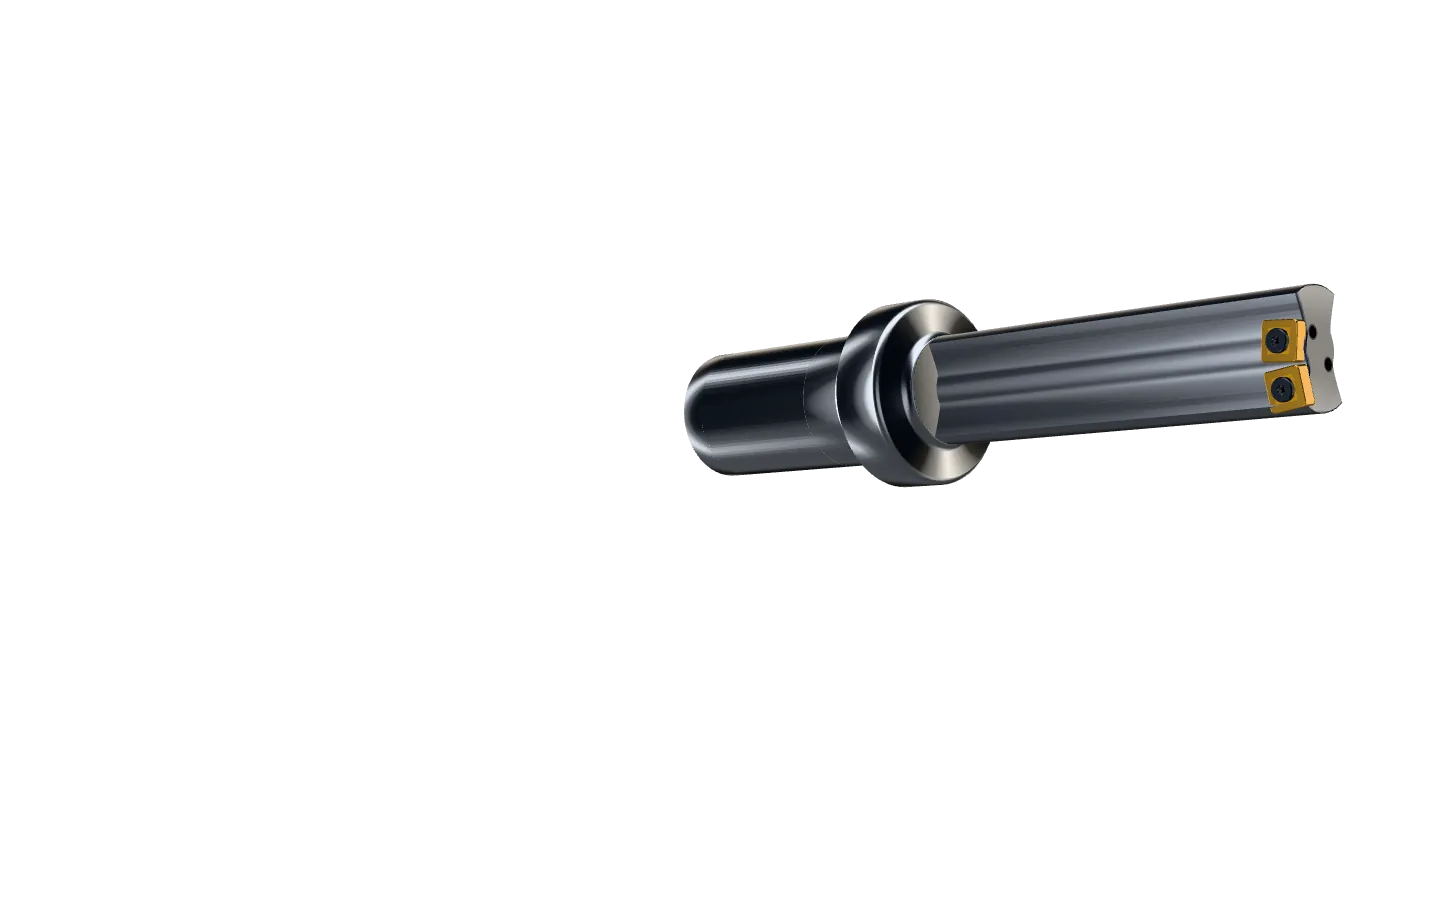
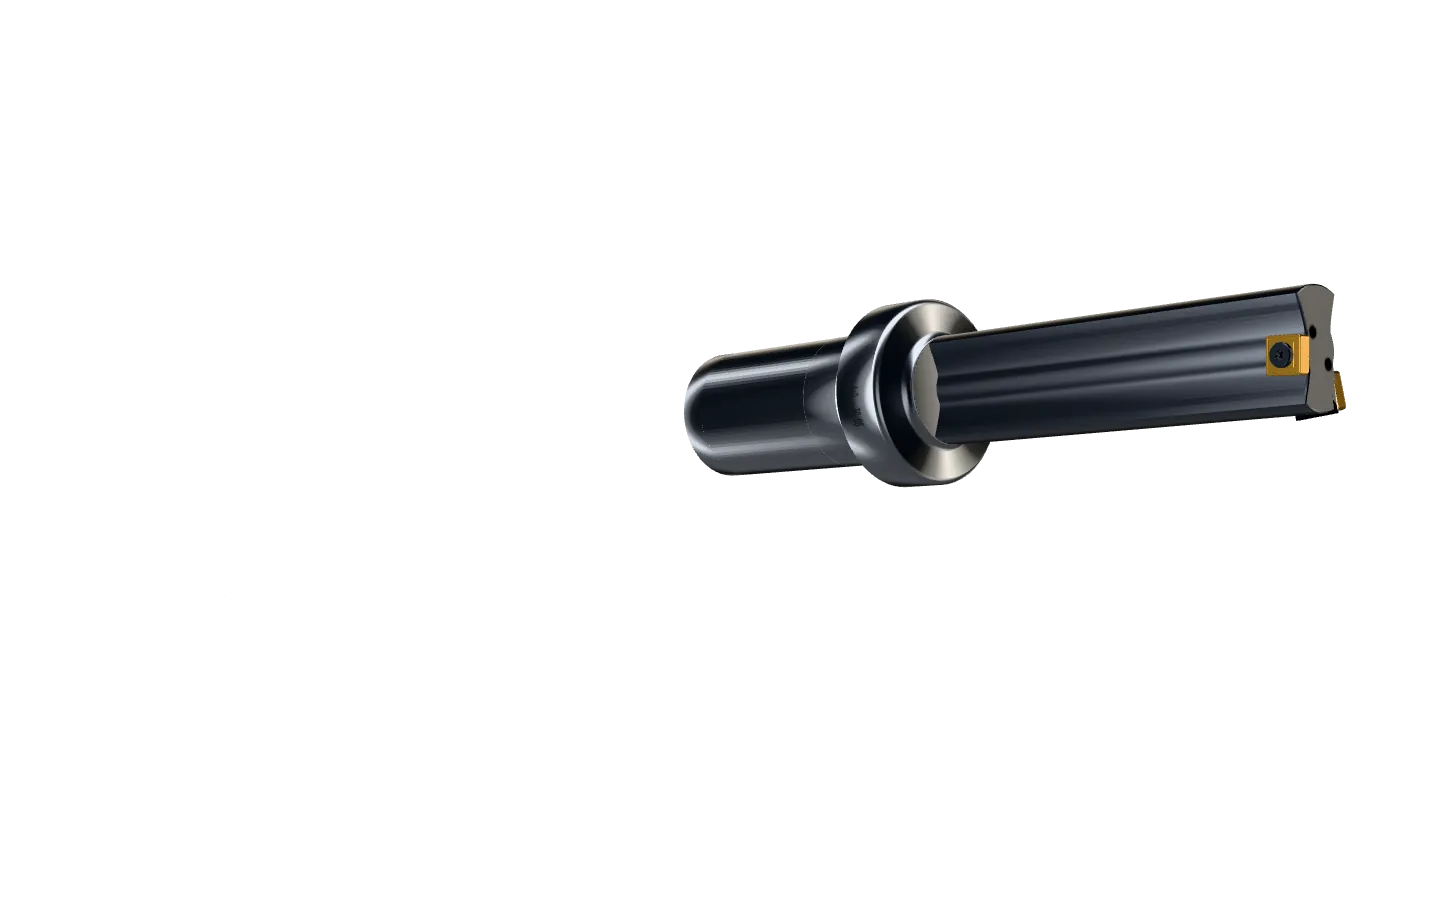
Vitrin U-matkabı: gerçek yerleşim ve detaylar
- Merkez ucu bir olukta eksene yakın, çevre ucu karşı olukta dış çapta (gerçek
  U-matkap düzeni); kesme kenarları ortada üst üste biner
- Talaş kırıcılı kare uçlar, uç cebi gölgesi, koyu nikel gövde, koyu uç yüzü
- Yakada lazer markalama (Ø25 · 4×D · IC 08), sap arkasında soğutma girişi
- Uçlar sahnesi: iki ucu birlikte gösteren uçtan 3/4 açı, yeni kamera hareketleri
- Etiketler gövdenin arkasında kalan noktaları göstermez, çıkan ucu takip eder
- Sayfa denetim araçları (tam sayfa görüntü + otomatik kontroller)
- Poster görselleri yeni modelle yenilendi

Claude-Session: https://claude.ai/code/session_01WzrkaBK6SRZNp3GfY6DdeC

Changed region(s): [[0.625, 0.3111, 0.9375, 0.4978]]

diff --git a/aksoy-site/src/scripts/showcase/model.ts b/aksoy-site/src/scripts/showcase/model.ts
@@ -1,6 +1,7 @@
 // Kodla üretilmiş uçlu U-matkap (geçici model). Ölçüler mm; dış grup 0.01 ile ölçeklenir (1 birim = 100 mm).
 // Gövde, kullanıcının getireceği GLB ile değiştirilebilir; uçlar, torx vidalar ve soğutma noktaları kodda kalır.
 import * as THREE from 'three';
+import { buildInsert as buildChipbreakerInsert } from '../three/tools3d';
 
 export interface InsertPart {
   /** Uç + vidanın bağlı olduğu yuva (seat) noktası */
@@ -113,7 +114,8 @@ function torxPath(rOuter: number, rInner: number, lobes = 6) {
 }
 
 function makeMaterials() {
-  const body = new THREE.MeshPhysicalMaterial({ color: 0x8e949c, metalness: 1, roughness: 0.34, envMapIntensity: 1.0, vertexColors: true });
+  // Gövde: koyu nikel kaplama; oluk içleri köşe rengiyle daha koyu, taşlanmış pahlar parlak
+  const body = new THREE.MeshPhysicalMaterial({ color: 0x6a7078, metalness: 1, roughness: 0.32, envMapIntensity: 1.1, vertexColors: true, clearcoat: 0.25, clearcoatRoughness: 0.35 });
   const shank = new THREE.MeshPhysicalMaterial({ color: 0x9da3ab, metalness: 1, roughness: 0.25, envMapIntensity: 1.0 });
   const flat = new THREE.MeshPhysicalMaterial({ color: 0x7a8088, metalness: 1, roughness: 0.5 });
   const flute = new THREE.MeshPhysicalMaterial({ color: 0x4f545b, metalness: 1, roughness: 0.3 });
@@ -123,30 +125,15 @@ function makeMaterials() {
   return { body, shank, flat, flute, insert, screw, hole };
 }
 
-function buildInsert(mat: THREE.Material, holeMat: THREE.Material) {
+function buildInsert(mat: THREE.MeshPhysicalMaterial, holeMat: THREE.MeshBasicMaterial, screwMat: THREE.MeshPhysicalMaterial) {
   const size = 8, th = 3.18;
-  const shape = roundedSquare(size, 0.8);
-  const hole = new THREE.Path();
-  hole.absarc(0, 0, 1.75, 0, Math.PI * 2, true);
-  shape.holes.push(hole);
-  const geo = new THREE.ExtrudeGeometry(shape, { depth: th - 0.5, bevelEnabled: true, bevelThickness: 0.25, bevelSize: 0.22, bevelSegments: 3, curveSegments: 24 });
-  geo.translate(0, 0, -(th - 0.5) / 2);
+  const h = size / 2;
   const g = new THREE.Group();
-  const m = new THREE.Mesh(geo, mat);
-  g.add(m);
-  // Talaş kırıcı: üst yüzeyde içe çekik ince çerçeve
-  const land = new THREE.Mesh(
-    new THREE.RingGeometry(2.6, 3.3, 4, 1, Math.PI / 4),
-    new THREE.MeshPhysicalMaterial({ color: 0xa97a2a, metalness: 1, roughness: 0.45 }),
-  );
-  land.position.z = th / 2 + 0.01;
-  land.scale.setScalar(1.12);
-  g.add(land);
-  // Havşa (vida başı oturma yeri)
-  const cs = new THREE.Mesh(new THREE.CylinderGeometry(2.4, 1.75, 0.6, 32, 1, true), holeMat);
-  cs.rotation.x = Math.PI / 2;
-  cs.position.z = th / 2 - 0.3;
-  g.add(cs);
+  // Kare SPMG benzeri uç: kesme kenarı bandı, talaş kırıcı oluğu, plato ve havşalı delik
+  const body = buildChipbreakerInsert([new THREE.Vector2(h, -h), new THREE.Vector2(h, h), new THREE.Vector2(-h, h), new THREE.Vector2(-h, -h)],
+    { rad: 0.8, th, hole: 1.75, land: 0.45, breaker: 1.55 }, { screw: screwMat, hole: holeMat } as any, mat);
+  body.position.z = -th / 2;
+  g.add(body);
   // Körelmiş kenar: üst yüzde tek bir kesme kenarı boyunca turuncu ısı izi
   const wear = new THREE.Mesh(
     new THREE.BoxGeometry(size - 1.6, 0.55, 0.2),
@@ -156,6 +143,23 @@ function buildInsert(mat: THREE.Material, holeMat: THREE.Material) {
   g.add(wear);
   g.userData.wear = wear;
   return g;
+}
+
+/** Markalama: yaka üzerine lazerle yazılmış ölçü (koyu, yarı mat) */
+function markingTexture(text: string) {
+  const c = document.createElement('canvas');
+  c.width = 1024; c.height = 96;
+  const g = c.getContext('2d')!;
+  g.clearRect(0, 0, c.width, c.height);
+  g.font = '600 54px "IBM Plex Mono", ui-monospace, monospace';
+  g.textAlign = 'center';
+  g.textBaseline = 'middle';
+  g.fillStyle = 'rgba(14,15,17,0.88)';
+  g.fillText(text, c.width / 2, c.height / 2 + 2);
+  const t = new THREE.CanvasTexture(c);
+  t.colorSpace = THREE.SRGBColorSpace;
+  t.anisotropy = 4;
+  return t;
 }
 
 function buildScrew(mat: THREE.Material, holeMat: THREE.Material) {
@@ -224,15 +228,31 @@ export function buildDrill(): Drill {
   {
     const pos = fg.attributes.position;
     const col = new Float32Array(pos.count * 3);
+    const nrm = fg.attributes.normal;
     for (let i = 0; i < pos.count; i++) {
       const r = Math.hypot(pos.getX(i), pos.getZ(i));
       const k = THREE.MathUtils.smoothstep(r, R - 2.2, R - 0.2);
-      const c = 0.62 + 0.38 * k;
+      let c = 0.58 + 0.42 * k;
+      // Uç yüzü (kesme tarafı) taşlanmış ama koyu: düz "tıpa" görünmesin
+      if (nrm.getY(i) > 0.9 && pos.getY(i) > A_TIP - 1) c = 0.5;
       col[i * 3] = c; col[i * 3 + 1] = c; col[i * 3 + 2] = c * 1.02;
     }
     fg.setAttribute('color', new THREE.BufferAttribute(col, 3));
   }
   body.add(new THREE.Mesh(fg, materials.body));
+
+  // Yaka üzerinde lazer markalama (ön yüz)
+  const mark = new THREE.Mesh(
+    new THREE.CylinderGeometry(22.04, 22.04, 7, 96, 1, true, -0.62, 1.24),
+    new THREE.MeshPhysicalMaterial({ map: markingTexture('Ø25 · 4×D · IC 08'), transparent: true, depthWrite: false, metalness: 0.4, roughness: 0.7, polygonOffset: true, polygonOffsetFactor: -2 }),
+  );
+  mark.position.y = -51;
+  body.add(mark);
+  // Sap arkasında içten soğutma girişi
+  const inlet = new THREE.Mesh(new THREE.CircleGeometry(3.2, 32), materials.hole);
+  inlet.rotation.x = Math.PI / 2;
+  inlet.position.y = A_END - 0.02;
+  body.add(inlet);
 
   // Uç yüzü: soğutma delikleri
   const coolant: Drill['coolant'] = [];
@@ -255,9 +275,11 @@ export function buildDrill(): Drill {
 
   // Uçlar ve torx vidalar (öne bakan olukta: +Z)
   const inserts: InsertPart[] = [];
+  // Gerçek U-matkaptaki gibi: merkez ucu bir olukta eksene yakın, çevre ucu karşı olukta dış çapta;
+  // kesme kenarları ortada üst üste biner ve uç yüzünden ~0,6 mm öne taşar.
   const seats = [
-    { name: 'cevre', pos: new THREE.Vector3(7.6, A_TIP - 3.6, 5.6), rot: new THREE.Euler(0.08, 0.06, 0.12) },
-    { name: 'merkez', pos: new THREE.Vector3(-1.9, A_TIP - 4.2, 5.4), rot: new THREE.Euler(0.08, -0.04, -0.08) },
+    { name: 'cevre', pos: new THREE.Vector3(8.7, A_TIP - 3.4, -5.5), rot: new THREE.Euler(-0.08, Math.PI + 0.05, -0.1) },
+    { name: 'merkez', pos: new THREE.Vector3(1.0, A_TIP - 3.5, 5.5), rot: new THREE.Euler(0.08, -0.04, -0.06) },
   ];
   for (const s of seats) {
     const seat = new THREE.Group();
@@ -265,15 +287,20 @@ export function buildDrill(): Drill {
     seat.rotation.copy(s.rot);
     scaler.add(seat);
     const ins = new THREE.Group();
-    const insMesh = buildInsert(materials.insert, materials.hole);
+    const insMesh = buildInsert(materials.insert, materials.hole, materials.screw);
     ins.add(insMesh);
     seat.add(ins);
+    // Uç cebi: uçtan biraz büyük karanlık oyuk, kenarlarda gölge çizgisi olarak görünür
+    const pocket = new THREE.Mesh(new THREE.BoxGeometry(9.0, 8.6, 1.3), materials.hole);
+    pocket.position.set(0, -0.75, -2.0);
+    seat.add(pocket);
     const screw = buildScrew(materials.screw, materials.hole);
     screw.position.z = 1.9;
     seat.add(screw);
     inserts.push({ seat, insert: ins, screw, wear: insMesh.userData.wear, liftForward: s.name === 'cevre' ? 1 : 0.6 });
+    // Etiket noktası ucun kendisine bağlı: uç yerinden çıkınca etiket de onunla gider
     const a = new THREE.Object3D();
-    seat.add(a);
+    ins.add(a);
     a.position.set(0, 0, 2);
     anchors[`insert-${s.name}`] = a;
     const sa = new THREE.Object3D();

diff --git a/aksoy-site/src/scripts/showcase/showcase.ts b/aksoy-site/src/scripts/showcase/showcase.ts
@@ -22,7 +22,7 @@ const TAU = Math.PI * 2;
 const DESKTOP: Pose[] = [
   { rx: 0.3, ry: -0.9, rz: 0.45, px: 0.36, py: 0.14, scale: 1.15, focus: CENTER, spin: -0.5 },
   { rx: 0.2, ry: 0.5, rz: 0.06, px: 0.3, py: -0.04, scale: 0.92, focus: 22, spin: -0.75 },
-  { rx: 0.3, ry: -0.35, rz: 0.1, px: -0.15, py: 0.02, scale: 3.6, focus: 50, spin: 0.1 },
+  { rx: 0.25, ry: -1.15, rz: 0.1, px: -0.17, py: 0.02, scale: 3.0, focus: 50, spin: -0.5 },
   { rx: 0.22, ry: -0.6, rz: 0.12, px: 0.34, py: 0.02, scale: 1.5, focus: 30, spin: -0.35 },
   { rx: 0.4, ry: -0.5, rz: 0.2, px: -0.2, py: 0.04, scale: 3.3, focus: 50, spin: 0.25 },
   { rx: 0.3, ry: -0.9, rz: 0.45, px: 0.02, py: 0.32, scale: 0.95, focus: CENTER, spin: -0.5 },
@@ -32,7 +32,7 @@ const DESKTOP_DIM: Partial<Pose> = { rx: 0.15, ry: -0.18, rz: 0.04, px: 0.36, py
 const MOBILE: Pose[] = [
   { rx: 0.3, ry: -0.9, rz: 0.9, px: 0.0, py: 0.3, scale: 1.95, focus: CENTER, spin: -0.5 },
   { rx: 0.2, ry: 0.5, rz: 0.5, px: 0.0, py: 0.3, scale: 1.45, focus: 22, spin: -0.75 },
-  { rx: 0.3, ry: -0.35, rz: 0.3, px: 0.04, py: 0.3, scale: 4.6, focus: 50, spin: 0.1 },
+  { rx: 0.25, ry: -1.15, rz: 0.3, px: 0.02, py: 0.3, scale: 3.9, focus: 50, spin: -0.5 },
   { rx: 0.22, ry: -0.6, rz: 0.42, px: -0.04, py: 0.3, scale: 2.5, focus: 30, spin: -0.35 },
   { rx: 0.4, ry: -0.5, rz: 0.36, px: 0.04, py: 0.32, scale: 4.4, focus: 50, spin: 0.25 },
   { rx: 0.3, ry: -0.9, rz: 0.9, px: 0.0, py: 0.4, scale: 1.7, focus: CENTER, spin: -0.5 },
@@ -297,12 +297,12 @@ export async function startShowcase(
       ft({ shake: 0 }, { shake: 0.55, duration: 0.04 }, 3.6);
       ft({ shake: 0.55 }, { shake: 0, duration: 0.35 }, 3.64);
       if (!calm) cam([
-        { at: 0, dur: 0.45, to: { scale: 0.35, ry: 0.08, env: 0.2 } }, // körelmiş kenara yaklaş
-        { at: 0.45, dur: 1.0, to: { scale: 1.15, ry: 0.22, rx: 0.12, focus: 2, env: 0.5 } }, // vida sökülürken makro
-        { at: 1.45, dur: 0.6, ease: 'power2.out', to: { scale: 0.55, ry: 0.55, rx: 0.1, rz: 0.04, env: 0.9 } }, // uç fırlar, kamera döner
-        { at: 2.05, dur: 1.0, to: { scale: 0.7, ry: 0.85, rx: 0.32, rz: 0.06, env: 1.4 } }, // 90° çevirme: üstten bakış
-        { at: 3.05, dur: 0.6, ease: 'power2.in', to: { scale: 1.0, ry: 0.4, rx: 0.12, rz: 0, env: 1.6 } }, // oturma anına dal
-        { at: 3.7, dur: 0.9, to: { scale: 0.2, ry: 0.1, rx: 0.02, env: 1.9 } }, // sıkılırken geri çekil
+        { at: 0, dur: 0.45, to: { scale: 0.3, ry: 0.05, env: 0.2 } }, // körelmiş kenara yaklaş
+        { at: 0.45, dur: 1.0, to: { scale: 0.85, ry: -0.08, rx: 0.1, focus: 2, env: 0.5 } }, // vida sökülürken makro
+        { at: 1.45, dur: 0.6, ease: 'power2.out', to: { scale: 0.45, ry: 0.2, rx: 0.14, rz: 0.04, env: 0.9 } }, // uçlar fırlar, kamera döner
+        { at: 2.05, dur: 1.0, to: { scale: 0.55, ry: 0.42, rx: 0.3, rz: 0.06, env: 1.4 } }, // 90° çevirme: çevre ucuna dön
+        { at: 3.05, dur: 0.6, ease: 'power2.in', to: { scale: 0.8, ry: 0.12, rx: 0.12, rz: 0, env: 1.6 } }, // oturma anına dal
+        { at: 3.7, dur: 0.9, to: { scale: 0.15, ry: 0.03, rx: 0.02, env: 1.9 } }, // sıkılırken geri çekil
       ]);
     }
     if (k === 3) {
@@ -683,7 +683,25 @@ export async function startShowcase(
   // GAP kadar yakınlık da çakışma sayılır
   const overlap = (a: Rect, b: Rect) =>
     Math.max(0, Math.min(a.r, b.r) - Math.max(a.l, b.l) + GAP) * Math.max(0, Math.min(a.b, b.b) - Math.max(a.t, b.t) + GAP);
+  // Gövdenin arkasında kalan noktaların etiketi gösterilmez (ör. karşı oluktaki uç)
+  const ray = new THREE.Raycaster();
+  const occluded = new Map<string, boolean>();
+  const rv = new THREE.Vector3();
+  let occT = -1;
+  function updateOcclusion() {
+    if (elapsed - occT < 0.1) return;
+    occT = elapsed;
+    for (const p of pins) {
+      if ((S[p.group] as number) < 0.01) continue;
+      drill.anchors[p.anchor].getWorldPosition(rv);
+      const d = rv.distanceTo(camera.position);
+      ray.set(camera.position, rv.sub(camera.position).normalize());
+      ray.far = Math.max(0, d - 0.03);
+      occluded.set(p.anchor, ray.intersectObject(drill.body, true).length > 0);
+    }
+  }
   function layoutPins(dt: number) {
+    updateOcclusion();
     if (elapsed - obstT > 0.25 || obstT < 0) {
       obstT = elapsed;
       const sr = sticky.getBoundingClientRect();
@@ -709,7 +727,7 @@ export async function startShowcase(
     for (const [pi, p] of pins.entries()) {
       const o = S[p.group] as number;
       const P = Ps[pi];
-      const on = o > 0.35 && !P.behind;
+      const on = o > 0.35 && !P.behind && !occluded.get(p.anchor);
       p.el.classList.toggle('is-on', on);
       const st = p.st;
       if (o < 0.01) { st.ci = -1; continue; }
